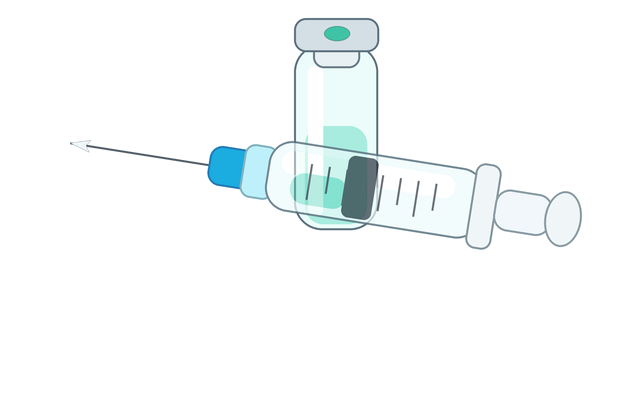
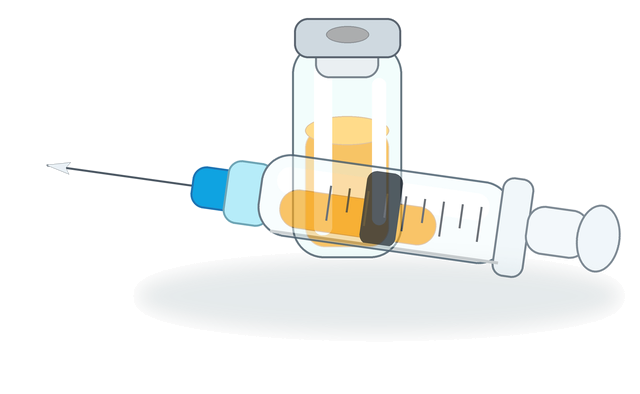
fix(home): amber vaccine card artwork

Changed region(s): [[0.0625, 0.0305, 0.9688, 0.8223], [0.9062, 0.6091, 0.9688, 0.7005], [0.75, 0.3959, 0.7812, 0.4264]]

diff --git a/apps/web/src/components/AppleControlButtons.tsx b/apps/web/src/components/AppleControlButtons.tsx
@@ -168,14 +168,14 @@ export function AppleControlButtons({
             className="group relative min-h-[80px] overflow-hidden rounded-xl border border-emerald-400 bg-gradient-to-br from-emerald-100 via-emerald-100 to-teal-200 p-2.5 shadow-sm shadow-emerald-900/10 transition-all duration-200 hover:-translate-y-0.5 hover:shadow-md active:scale-95 min-[390px]:min-h-[92px] min-[390px]:rounded-2xl min-[390px]:p-3"
           >
             {shouldShowAlert(colorVaccines, alertVaccines) && <AlertDot tone={colorVaccines} />}
-            <span className="absolute right-0.5 top-1.5 opacity-95 pointer-events-none transition-transform group-hover:scale-105 min-[390px]:right-1 min-[390px]:top-2">
+            <span className="absolute right-0.5 top-1 opacity-95 pointer-events-none transition-transform group-hover:scale-105 min-[390px]:right-1 min-[390px]:top-1.5">
               <img
                 src="/vacina-ampolas-seringa.webp"
                 alt=""
-                className="h-11 w-[72px] object-contain min-[390px]:h-12 min-[390px]:w-[82px]"
+                className="h-14 w-[92px] object-contain min-[390px]:h-16 min-[390px]:w-[104px]"
               />
             </span>
-            <div className="flex h-full flex-col justify-center pr-[74px] pt-2 text-left min-[390px]:pr-[86px] min-[390px]:pt-3">
+            <div className="flex h-full flex-col justify-center pr-[84px] pt-2 text-left min-[390px]:pr-[96px] min-[390px]:pt-3">
               <h3 className="truncate text-[13px] font-semibold leading-tight text-emerald-950 min-[390px]:text-[14px] sm:text-base">
                 Vacina
               </h3>
